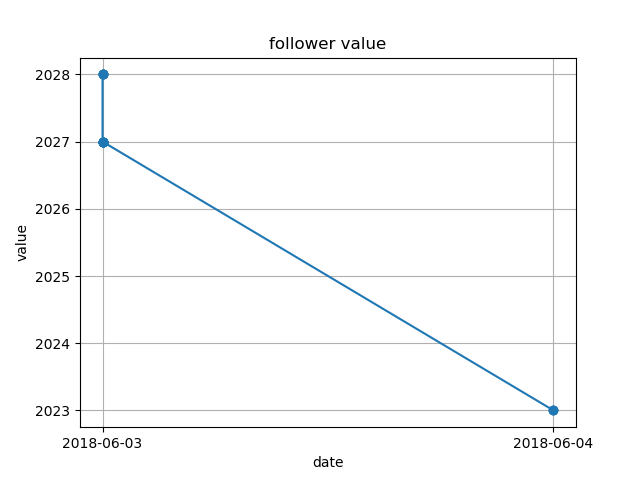
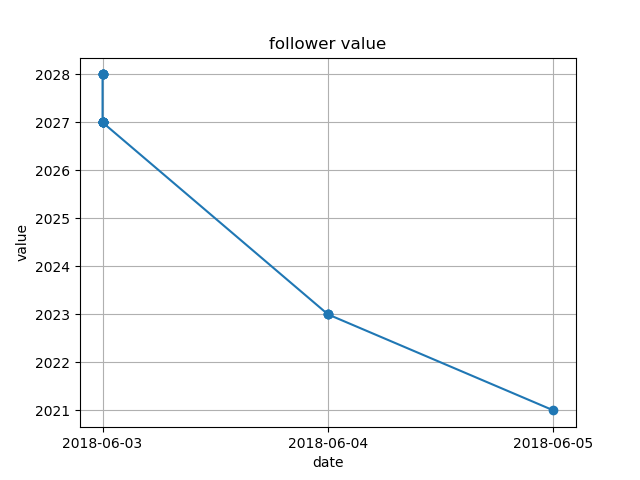
modi

diff --git a/2018-06-05_followersData_amg_Impressions.html b/2018-06-05_followersData_amg_Impressions.html
@@ -1,0 +1,8 @@
+
+        <!DOCTYPE html>
+        <html>
+        <head><title>result_2018-06-05</title></head>
+        <body>
+        <img src='./amg_Impressions_account_value.png'>
+        </body></html>
+        

diff --git a/count_intersection.py b/count_intersection.py
@@ -64,7 +64,7 @@ class Followers_data:
 
     def write_csv(self, all_followers_list):
         """Write followers count & date"""
-        csvfile_writer = open(args[3] + '.csv', 'a', newline='')
+        csvfile_writer = open(str(date) + '_followersData_' + args[3] + '.csv', 'a', newline='')
         writer = csv.writer(csvfile_writer)
         cnt = 3
         for write_data in all_followers_list:
@@ -75,7 +75,7 @@ class Followers_data:
         """Read hisory of followers count & date"""
         csv_data_list = []
         csv_data_element = []
-        csvfile_reader = open(args[3] + '.csv')
+        csvfile_reader = open(str(date) + '_followersData_' + args[3] + '.csv')
         for row in csv.reader(csvfile_reader):
             csv_data_list.append(row)
         for csv_element in csv_data_list:
